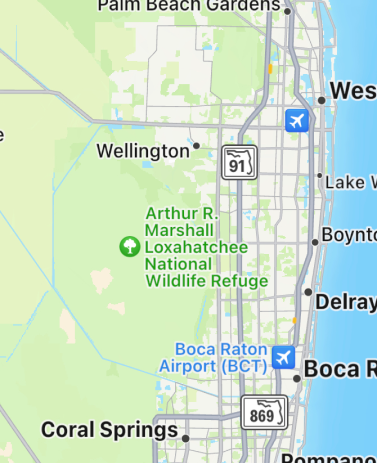
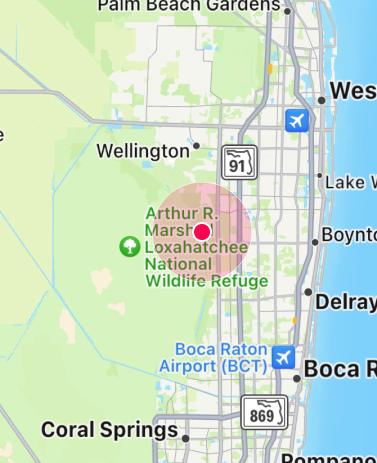
feat: completed home part

Changed region(s): [[0.3793, 0.3931, 0.6711, 0.635]]

diff --git a/src/components/home/SearchModal.js b/src/components/home/SearchModal.js
@@ -4,7 +4,7 @@ import {
   StyleSheet,
   Text,
   Pressable,
-  ScrollView,
+  Image,
   View,
   SafeAreaView,
   Dimensions,
@@ -18,27 +18,36 @@ import {
   COLOR_WHITE,
 } from '../../constants/colors';
 import {FONT_REGULAR} from '../../constants/fonts';
-import SliderPane from './SliderPane';
+import {MapWellingtonImage} from '../../constants/images';
+import RadiusSliderPane from './RadiusSliderPane';
+import SearchMapText from './SearchMapText';
 
 const width = Dimensions.get('window').width;
 const height = Dimensions.get('window').height;
 
 const SearchModal = ({modalVisible, setModalVisible}) => {
   const [sliderValue, setSliderValue] = useState(0);
+  const [searchText, setSearchText] = useState('');
 
   const handleSliderValueChange = value => {
     setSliderValue(value);
   };
 
-  const FilterEventsView = (
+  const onChangeText = text => {
+    setSearchText(text);
+  };
+
+  const MapView = (
     <>
-      <Text style={styles.SubTitleFont}>Category</Text>
-      <SliderPane
-        style={styles.SliderPane}
-        title="Price"
-        value={sliderValue}
-        onValueChange={handleSliderValueChange}
-      />
+      <Image source={MapWellingtonImage} style={styles.MapWellingtonImage} />
+      <View style={styles.ScrollView}>
+        <RadiusSliderPane
+          style={styles.RadiusSliderPane}
+          title="Select radius"
+          value={sliderValue}
+          onValueChange={handleSliderValueChange}
+        />
+      </View>
     </>
   );
 
@@ -47,9 +56,14 @@ const SearchModal = ({modalVisible, setModalVisible}) => {
       <Modal animationType="slide" transparent={true} visible={modalVisible}>
         <View style={styles.OverlayStyle} />
         <View style={styles.ModalView}>
-          <Text style={styles.ModalTitleFont}>Filter Events</Text>
-          <ScrollView style={styles.ScrollView}>{FilterEventsView}</ScrollView>
-
+          <View style={styles.BottomButton}>
+            <SearchMapText
+              style={[styles.SearchMapText]}
+              value={searchText}
+              onChangeText={onChangeText}
+            />
+          </View>
+          {MapView}
           <View style={styles.BottomButton}>
             <Pressable style={[styles.Button, styles.ButtonApply]}>
               <Text style={[styles.TextStyle, styles.TextApply]}>Save</Text>
@@ -134,12 +148,21 @@ const styles = StyleSheet.create({
     fontSize: 16,
     lineHeight: 34,
   },
-  SliderPane: {
+  RadiusSliderPane: {
     marginVertical: 10,
     width: '100%',
   },
   BottomButton: {
     marginHorizontal: 24,
+  },
+  SearchMapText: {
+    width: '82%',
+    height: 50,
+  },
+  MapWellingtonImage: {
+    width: '100%',
+    height: '50%',
+    marginVertical: 20,
   },
 });
 

diff --git a/src/components/home/RadiusSliderPane.js b/src/components/home/RadiusSliderPane.js
@@ -1,0 +1,48 @@
+import React from 'react';
+import {View, Text, StyleSheet} from 'react-native';
+import {FONT_REGULAR} from '../../constants/fonts';
+import Slider from '@react-native-community/slider';
+import {COLOR_PINK, COLOR_PINK_WEAK} from '../../constants/colors';
+
+const RadiusSlidePane = ({title, value, sliderValue, onValueChange, style}) => {
+  return (
+    <View style={[styles.View, style]}>
+      <View style={styles.TitleView}>
+        <Text style={styles.TitleFont}>{title}</Text>
+        <Text style={styles.ValueFont}>{value} miles</Text>
+      </View>
+      <Slider
+        maximumValue={100}
+        minimumValue={0}
+        minimumTrackTintColor={COLOR_PINK}
+        maximumTrackTintColor={COLOR_PINK_WEAK}
+        step={1}
+        value={sliderValue}
+        onValueChange={onValueChange}
+      />
+    </View>
+  );
+};
+
+const styles = StyleSheet.create({
+  View: {
+    flexDirection: 'column',
+  },
+  TitleView: {
+    flexDirection: 'row',
+    justifyContent: 'space-between',
+  },
+  TitleFont: {
+    fontFamily: FONT_REGULAR,
+    fontSize: 16,
+    lineHeight: 34,
+  },
+  ValueFont: {
+    fontFamily: FONT_REGULAR,
+    color: COLOR_PINK,
+    fontSize: 18,
+    lineHeight: 34,
+  },
+});
+
+export default RadiusSlidePane;

diff --git a/src/components/home/SearchMapText.js b/src/components/home/SearchMapText.js
@@ -1,0 +1,44 @@
+import React, {useState} from 'react';
+import {
+  View,
+  TextInput,
+  Image,
+  StyleSheet,
+  TouchableOpacity,
+} from 'react-native';
+import {COLOR_SEARCH_TEXT} from '../../constants/colors';
+import {SearchThinIcon, SendThinIcon} from '../../constants/icons';
+
+const SearchMapText = ({style, value, onChangeText, onPress}) => {
+  return (
+    <View style={styles.container}>
+      <TouchableOpacity>
+        <Image
+          source={SearchThinIcon}
+          style={{width: 24, height: 24, marginRight: 10}}
+        />
+      </TouchableOpacity>
+      <TextInput
+        style={style}
+        value={value}
+        onChangeText={onChangeText}
+        placeholder="Enter address..."
+      />
+      <TouchableOpacity onPress={onPress}>
+        <Image source={SendThinIcon} style={{width: 24, height: 24}} />
+      </TouchableOpacity>
+    </View>
+  );
+};
+
+const styles = StyleSheet.create({
+  container: {
+    flexDirection: 'row',
+    alignItems: 'center',
+    backgroundColor: COLOR_SEARCH_TEXT,
+    borderRadius: 45,
+    paddingHorizontal: 20,
+  },
+});
+
+export default SearchMapText;

diff --git a/src/constants/icons.js b/src/constants/icons.js
@@ -107,3 +107,5 @@ export const DropDownIcon = require('../assets/icons/DropDown.png');
 export const ArrowRightIcon = require('../assets/icons/ArrowRight.png');
 export const ArrowRightPinkIcon = require('../assets/icons/ArrowRightPink.png');
 export const ArrowLeftIcon = require('../assets/icons/ArrowLeft.png');
+export const SendThinIcon = require('../assets/icons/SendThin.png');
+export const SearchThinIcon = require('../assets/icons/SearchThin.png');

diff --git a/src/screens/HomeScreen/index.js b/src/screens/HomeScreen/index.js
@@ -84,6 +84,7 @@ function HomeScreen({navigation}) {
 
   const handleFilterEvents = () => {
     setModalVisible(true);
+    setMapViewVisible(false);
   };
 
   const handleMapView = () => {
@@ -92,6 +93,7 @@ function HomeScreen({navigation}) {
 
   const handleSearchModal = () => {
     setSearchModalVisible(true);
+    setMapViewVisible(false);
   };
 
   return (
